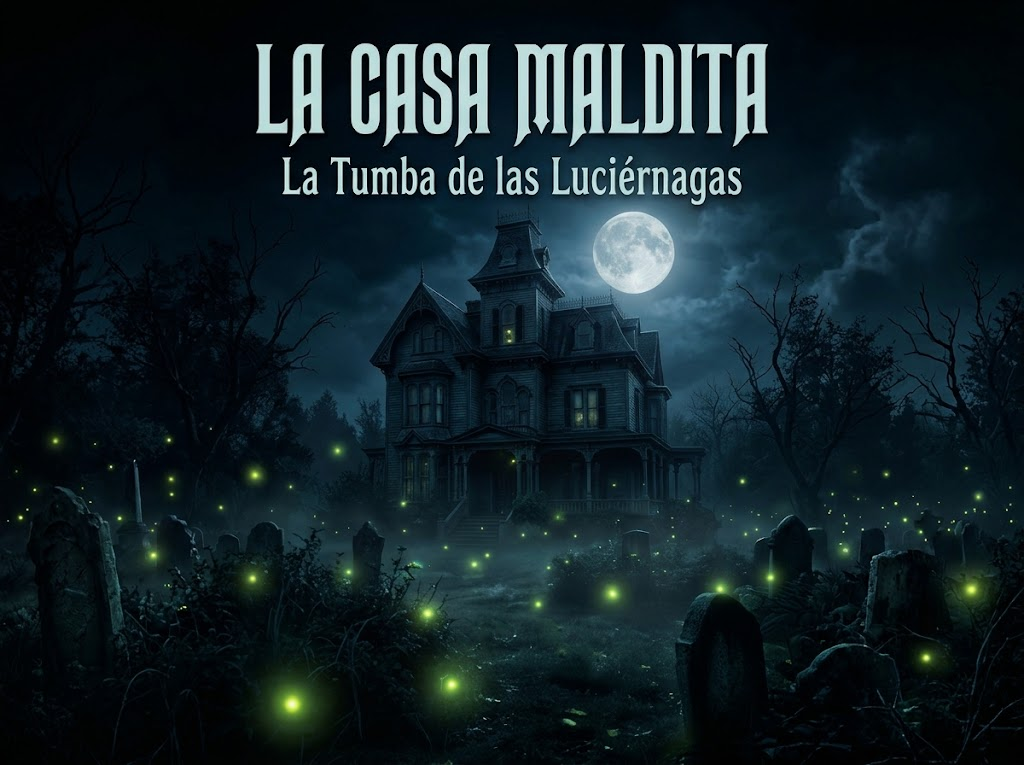
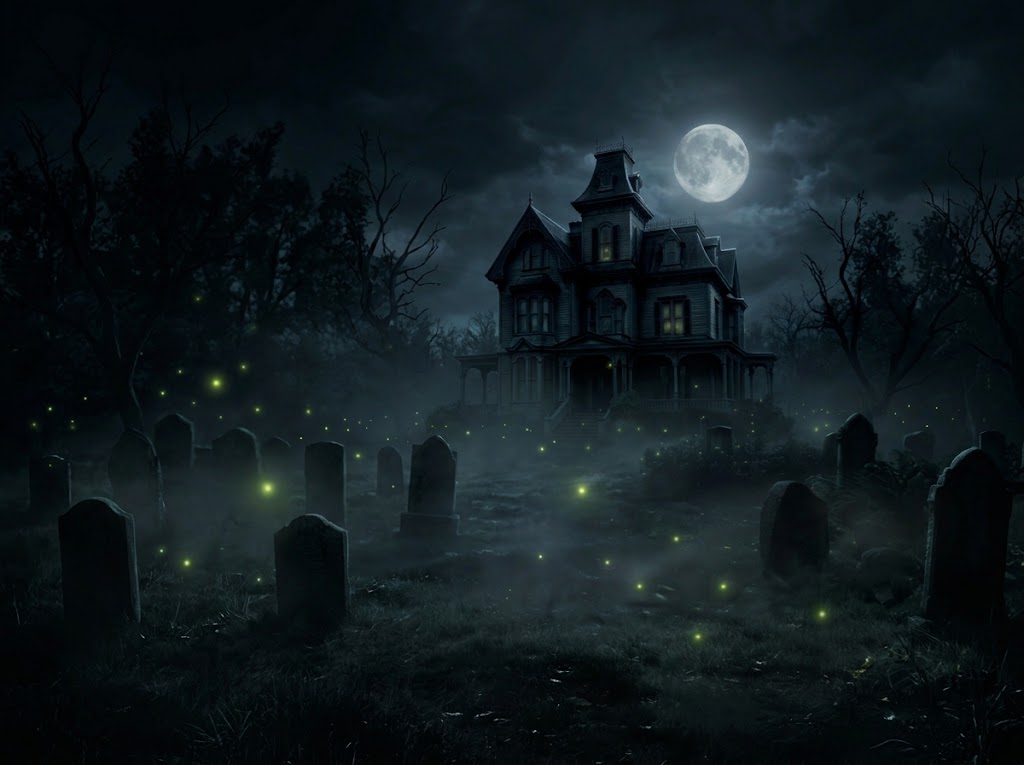
Add files via upload

diff --git a/pistas.html b/pistas.html
@@ -113,7 +113,7 @@
 <a class="volver" href="index.html">← Volver</a>
 
 <main>
-  <h1>Pistas</h1>
+  <h1></h1>
   
   <!-- Texto de introducción actualizado -->
   <p class="intro">En la caja habéis encontrado los sobres con mis últimos casos sin resolver, con cada uno obtendréis una palabra que deberéis introducir en la aplicación para encontrar lo que anhelais.</p>
